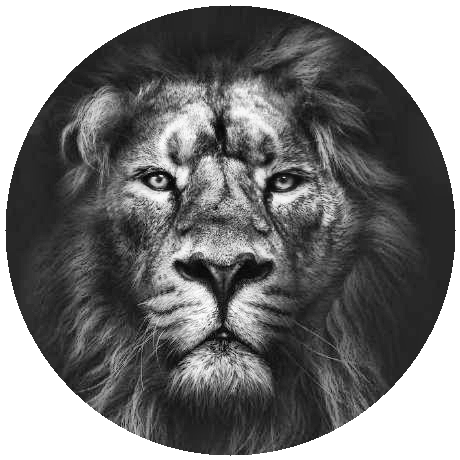
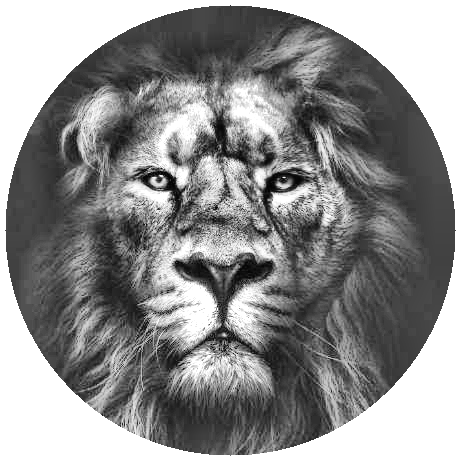
style: replace ascii portrait with high-res circular photo

diff --git a/scripts/prep_photo.py b/scripts/prep_photo.py
@@ -33,10 +33,15 @@ def main():
     x2 = x1 + size
     cropped = bgr_img[y1:y2, x1:x2]
 
-    print("Converting to grayscale and applying CLAHE...")
+    print("Converting to grayscale and boosting contrast...")
     gray = cv2.cvtColor(cropped, cv2.COLOR_BGR2GRAY)
-    clahe = cv2.createCLAHE(clipLimit=2.0, tileGridSize=(8, 8))
-    cl1 = clahe.apply(gray)
+    
+    # Boost contrast and brightness so dark details aren't lost
+    enhanced = cv2.convertScaleAbs(gray, alpha=1.3, beta=20)
+    
+    # Apply stronger CLAHE for local contrast
+    clahe = cv2.createCLAHE(clipLimit=4.0, tileGridSize=(8, 8))
+    cl1 = clahe.apply(enhanced)
 
     print("Applying circular mask (profile pic style)...")
     mask = np.zeros((size, size), dtype=np.uint8)

diff --git a/scripts/make_ascii_svg.py b/scripts/make_ascii_svg.py
@@ -12,7 +12,7 @@ RAMP = " .`:-=+*cs#%@"  # bright(sparse) -> dark(dense)
 FILL = "#c9d1d9"
 CURSOR = "#1E90FF"
 BG = "#0d1117"
-COLS, ROWS_N = 96, 46
+COLS, ROWS_N = 104, 46
 
 def from_photo():
     try:

diff --git a/README.md b/README.md
@@ -9,7 +9,7 @@
 <h3><code>neel@github ~ $ cat profile.json</code></h3>
 <table>
 <tr>
-<td valign="top"><img src="./neel-ascii.svg" width="370" alt="Neel Prajapati — ASCII portrait" /></td>
+<td valign="top"><img src="./source-prepped.png" width="370" alt="Neel Prajapati — Profile Photo" /></td>
 <td valign="top"><img src="./info-card.svg" width="490" alt="Neel Prajapati — role, stack, highlights" /></td>
 </tr>
 </table>

diff --git a/README_BLOCK.md b/README_BLOCK.md
@@ -9,7 +9,7 @@
 <h3><code>neel@github ~ $ cat profile.json</code></h3>
 <table>
 <tr>
-<td valign="top"><img src="./neel-ascii.svg" width="370" alt="Neel Prajapati — ASCII portrait" /></td>
+<td valign="top"><img src="./source-prepped.png" width="370" alt="Neel Prajapati — Profile Photo" /></td>
 <td valign="top"><img src="./info-card.svg" width="490" alt="Neel Prajapati — role, stack, highlights" /></td>
 </tr>
 </table>
